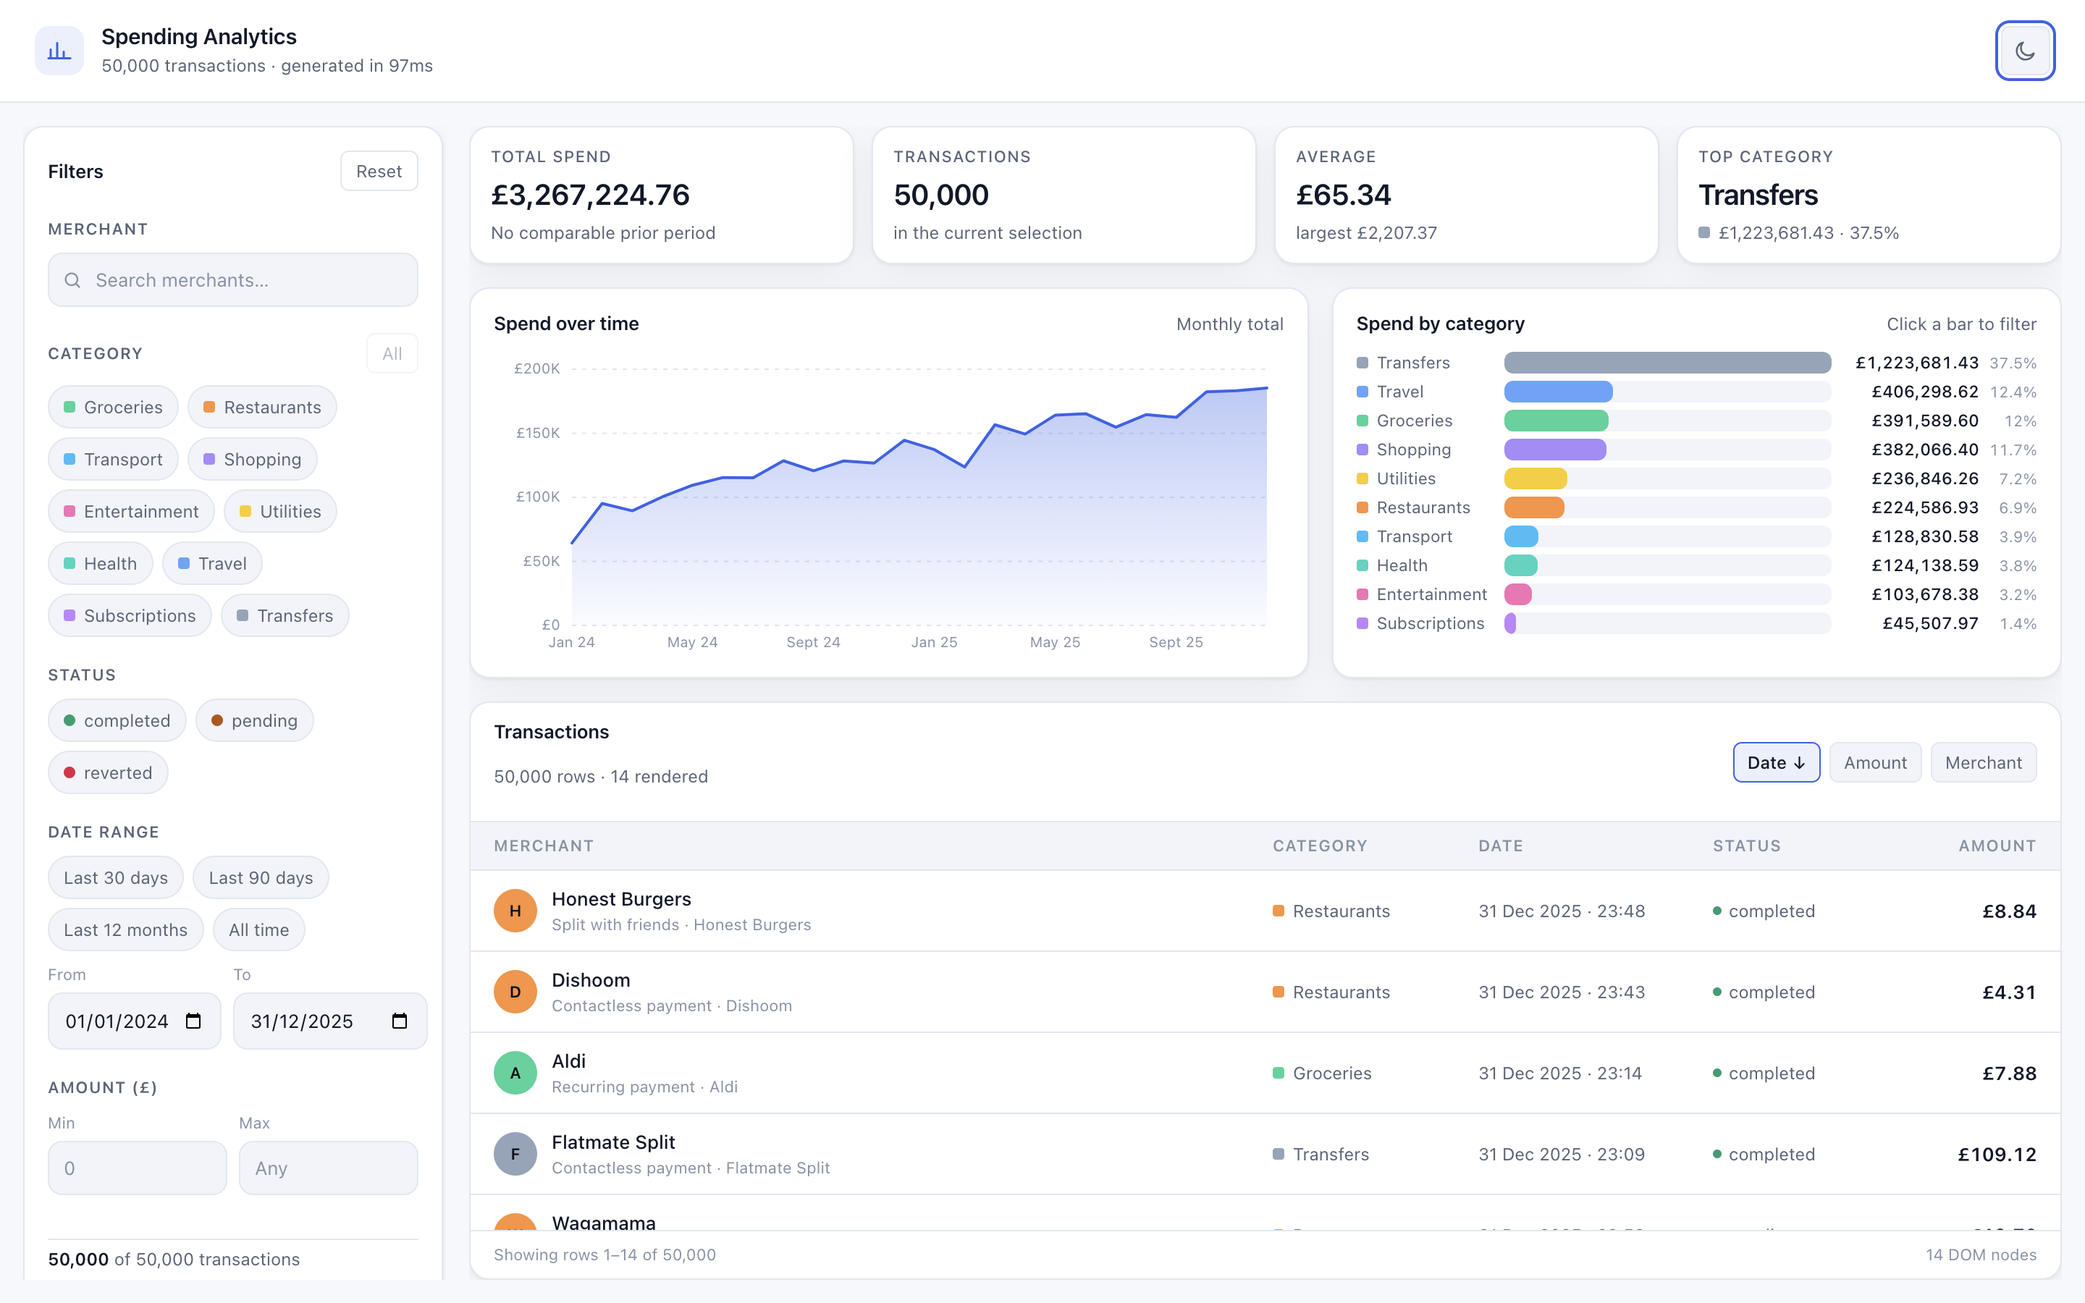
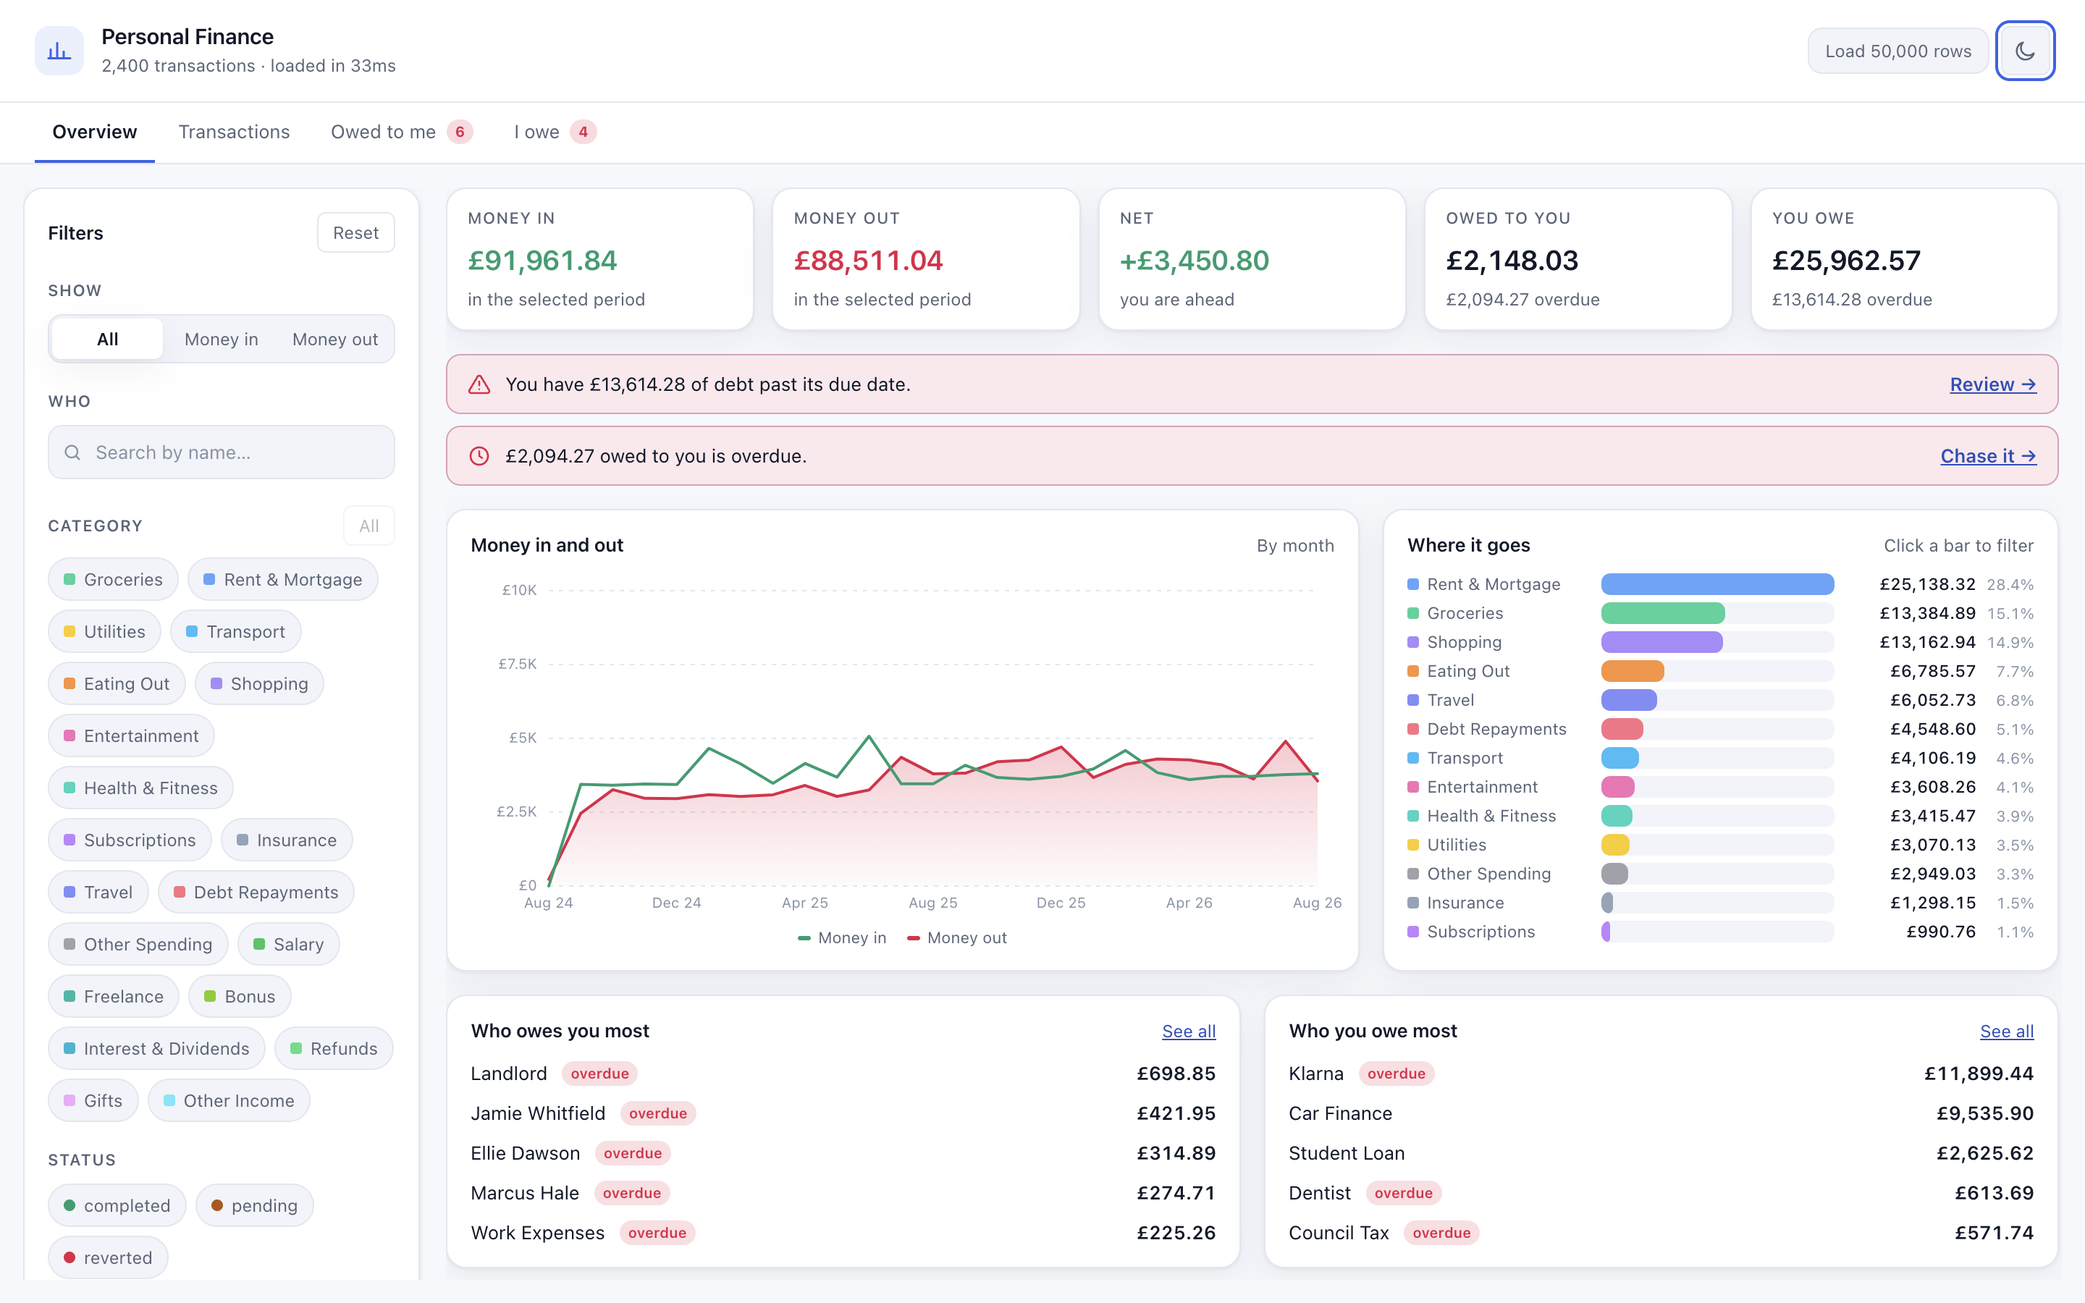
docs: rewrite the README for the finance dashboard
It still described a spending-only tool with a merchant search. Now
covers the four sections, what is stored locally and what is not, and
the decisions worth reading the code for.

diff --git a/cypress/capture/readme-screenshots.cy.ts b/cypress/capture/readme-screenshots.cy.ts
@@ -14,7 +14,8 @@ describe('README screenshots', () => {
       },
     });
 
-    cy.get('[data-testid="rendered-count"]', { timeout: 30_000 }).should('contain', '50,000 rows');
+    cy.get('[data-testid="overview-page"]', { timeout: 30_000 }).should('be.visible');
+    cy.get('[data-testid="cash-flow-chart"]').should('be.visible');
     // Let the bar widths finish their transition before capturing.
     cy.wait(600);
     cy.screenshot('dashboard-dark', { capture: 'viewport', overwrite: true });

diff --git a/README.md b/README.md
@@ -1,10 +1,7 @@
-# Spending Analytics Dashboard
+# Personal Finance Dashboard
 
-A personal-finance analytics dashboard that loads **50,000 transactions** in the browser and keeps
-filtering, sorting and charting them at interactive speed.
-
-[![CI](https://github.com/salahalomar/spending-analytics-dashboard/actions/workflows/ci.yml/badge.svg)](https://github.com/salahalomar/spending-analytics-dashboard/actions/workflows/ci.yml)
-[![Deploy](https://github.com/salahalomar/spending-analytics-dashboard/actions/workflows/deploy.yml/badge.svg)](https://github.com/salahalomar/spending-analytics-dashboard/actions/workflows/deploy.yml)
+A dashboard for the whole of your money, not just what you spent: income, outgoings, what you owe,
+and what you are owed — with everything you add saved in your own browser.
 
 **[Live demo →](https://salahalomar.github.io/spending-analytics-dashboard/)**
 
@@ -21,82 +18,68 @@ filtering, sorting and charting them at interactive speed.
 
 ## What it does
 
-- **50,000 transactions**, generated client-side from a fixed seed so every visitor sees the same
-  data and the numbers are reproducible.
-- **A virtualised list** — scroll the whole dataset while only ~20 rows are ever mounted in the DOM.
-- **Live filtering** by merchant, category, status, date range and amount, all combinable.
-- **Two charts** — spend over time and spend by category — that follow the filters and double as
-  filter controls.
-- **Summary cards** comparing the selected window against the preceding window of equal length.
-- **Light and dark themes**, persisted, defaulting to the OS preference.
-- **Keyboard and screen-reader support** throughout, including arrow-key navigation of the chart.
+Four sections, each with its own URL:
+
+- **Overview** — money in, money out, whether you are ahead, both ledger balances, and a banner when
+  anything is overdue in either direction.
+- **Transactions** — every payment in a virtualised list, with a keyboard-first row for adding your
+  own, and filters for direction, name, category, status, date range and amount.
+- **Owed to me** — who has not paid you back, aged by how overdue it is.
+- **I owe** — credit cards, loans and money borrowed, with the same ageing view.
+
+Anything you type in is stored locally and survives a reload. Nothing is uploaded anywhere; there is
+no backend.
 
 ## Built with
 
-| Concern                  | Choice                                    |
-| ------------------------ | ----------------------------------------- |
-| UI                       | React 18 + TypeScript (strict)            |
-| State                    | Redux Toolkit + Reselect                  |
-| Build                    | Vite 6                                    |
-| Unit / integration tests | Jest + React Testing Library              |
-| End-to-end tests         | Cypress                                   |
-| Linting / formatting     | ESLint (type-aware + jsx-a11y) + Prettier |
-| CI                       | GitHub Actions                            |
+| Concern | Choice |
+| --- | --- |
+| UI | React 18 + TypeScript (strict) |
+| State | Redux Toolkit + Reselect |
+| Routing | React Router 7 |
+| Storage | IndexedDB, with an in-memory fallback |
+| Build | Vite 6 |
+| Unit / integration tests | Jest + React Testing Library |
+| End-to-end tests | Cypress |
+| Quality | ESLint (type-aware) + Prettier, enforced in CI |
 
-There is no charting library and no virtual-list library — both are implemented here, because the
-interesting parts of this project are exactly those two problems.
+No charting library and no virtual-list library — both are implemented here, because those are the
+interesting parts of the problem.
 
-## The performance work
+## The engineering worth looking at
 
-Rendering 50,000 rows is easy to get wrong in ways that only show up with real data. Four decisions
-carry most of the weight:
-
-**Only the visible rows exist.**
-[`useVirtualizer`](src/hooks/useVirtualizer.ts) computes which slice of the list intersects the
-viewport and renders only that, plus a small overscan. The scroll container is sized to the full
+**Only the visible rows exist.** [`useVirtualizer`](src/hooks/useVirtualizer.ts) renders the slice of
+the list intersecting the viewport plus a small overscan, sizing the scroll container to the full
 list height so the scrollbar stays honest. Scroll events are coalesced into an animation frame,
-because a trackpad can fire them far more often than the browser paints. The range arithmetic is a
-[pure exported function](src/hooks/useVirtualizer.ts) so it can be tested without a DOM.
+because a trackpad fires them far more often than the browser paints. The range arithmetic is a pure
+exported function, so it is tested without a DOM. The footer shows the live DOM-node count, and the
+header has a button that loads 50,000 rows so you can watch it stay flat.
 
-**The merchant search never touches 50,000 strings.**
-There are ~70 distinct merchant names in the dataset. The search box
-[resolves the query against those names](src/features/transactions/selectors.ts) and the row filter
-then does a `Set` membership test. Lower-casing and substring-scanning 50,000 strings on every
-keystroke would be roughly three orders of magnitude more work.
+**The search never touches every row.** There are a few dozen distinct counterparty names. The
+search box [resolves the query against those](src/features/transactions/selectors.ts) and the row
+filter does a `Set` membership test — orders of magnitude less work per keystroke than lower-casing
+and scanning every string.
 
-**Filters are split so a slider doesn't redo everything.**
-`selectFilteredIgnoringDate` runs the merchant, category, status and amount predicates;
-`selectFilteredTransactions` layers the date range on top. Dragging a date input therefore re-runs
-one cheap comparison per row instead of all five predicates — and the summary card reuses the
-undated stage to compute the previous-period comparison for free.
+**Filters are split so a date slider doesn't redo everything.** `selectFilteredIgnoringDate` runs the
+name, category, status and amount predicates; the date range layers on top. Moving a date re-runs one
+comparison per row instead of all five — and the summary reuses the undated stage to compute the
+previous-period comparison for free.
 
-**The default sort is free.**
-The generator emits transactions newest-first and every filter preserves that order, so the default
-view returns the same array reference rather than copying and sorting 50,000 objects.
+**The default sort is free.** Transactions arrive newest-first and every filter preserves that order,
+so the default view returns the same array reference rather than copying and sorting.
 
-Typing is debounced at 200ms, and the store's development-mode serialisability and immutability
-checks are switched off — deep-scanning a 50,000 item array on every dispatch costs hundreds of
-milliseconds and catches nothing here.
+**Merging your records with the sample is linear.** Both sides are already sorted newest-first, so
+they are merged in one pass rather than concatenated and re-sorted.
 
-The result: **~75 kB gzipped**, the dataset built in around 100–300 ms, and a row count in the DOM
-that stays flat no matter how far you scroll. The footer shows that number live.
+**Money is integers.** Every amount is a positive count of pence, and `direction` carries the sign, so
+a total never depends on remembering which way round a figure was stored. Rounding happens once, at
+the formatting boundary.
 
-## Accessibility
-
-Not an afterthought, and not just labels:
-
-- The virtualised list is a real `list`/`listitem` structure where each row
-  reports `aria-setsize` of the **full** result count and its true `aria-posinset`, so a screen
-  reader announces "row 12,481 of 50,000" rather than "12 of 20".
-- Each row is a toggle wired to the detail panel with `aria-expanded` and `aria-controls`, and
-  dismissing the panel hands focus back to the row rather than dropping it to the top of the page.
-- The trend chart carries the same figures as a visually hidden table, so the series is readable
-  rather than being an unlabelled graphic, and it can be stepped through with the arrow keys.
-- Filter chips are `aria-pressed` toggles, the result count is an `aria-live` region, and every
-  interactive element has a single visible focus treatment.
-- Motion is dropped entirely under `prefers-reduced-motion`.
-
-ESLint runs `jsx-a11y` over the source as part of CI.
+**Status is derived, never stored.** A debt's `overdue` state is computed from its due date rather
+than saved, so a record cannot sit in storage claiming a status that stopped being true. The
+derivation takes the current time as an argument, which keeps it pure — and the pages read the clock
+through [`useNow`](src/hooks/useNow.ts), via `useSyncExternalStore`, because calling `Date.now()`
+during render is impure and lets two parts of the same screen disagree.
 
 ## Getting started
 
@@ -109,84 +92,91 @@ Then open http://localhost:5173.
 
 ### Scripts
 
-| Command                 | What it does                                 |
-| ----------------------- | -------------------------------------------- |
-| `npm run dev`           | Dev server with hot reload                   |
-| `npm run build`         | Typecheck, then production build to `dist/`  |
-| `npm run preview`       | Serve the production build on port 4173      |
-| `npm run typecheck`     | `tsc --noEmit`                               |
-| `npm run lint`          | ESLint over source, tests and Cypress specs  |
-| `npm run format`        | Prettier write (`format:check` runs in CI)   |
-| `npm test`              | Jest unit and integration tests              |
-| `npm run test:coverage` | The same, with a coverage report             |
-| `npm run cy:open`       | Cypress in interactive mode                  |
-| `npm run e2e`           | Build-and-serve, then run Cypress headlessly |
+| Command | What it does |
+| --- | --- |
+| `npm run dev` | Dev server with hot reload |
+| `npm run build` | Typecheck, then production build to `dist/` |
+| `npm run preview` | Serve the production build on port 4173 |
+| `npm run typecheck` | `tsc --noEmit` |
+| `npm run lint` | ESLint across the project |
+| `npm test` | Jest unit and integration tests |
+| `npm run test:coverage` | The same, with a coverage report |
+| `npm run cy:open` | Cypress in interactive mode |
+| `npm run e2e` | Build-and-serve, then run Cypress headlessly |
 
 ## Testing
 
-**211 Jest tests at ~97% statement coverage**, with the threshold enforced in
-[`jest.config.cjs`](jest.config.cjs) so it cannot quietly rot.
+**292 Jest tests at ~96% statement coverage**, with the threshold enforced in
+[`jest.config.cjs`](jest.config.cjs) so it cannot quietly rot, plus **10 Cypress journeys** against
+the production build.
 
 The suite is layered rather than uniform:
 
-- _Pure logic_ — the PRNG, the generator, the scale maths and the virtualiser's range calculation
-  are tested directly as functions.
-- _Reducers and selectors_ — tested against hand-checkable fixtures, including boundary days on
-  date ranges and the previous-period comparison.
-- _Components_ — rendered against a **real store**, not a mocked one, so the reducers and selectors
-  are exercised as part of the test. The list is asserted to render ~20 rows for a 5,000-row dataset
-  while still reporting the full count; the debounce is verified by dispatch count, so typing
-  "tesco" must produce exactly one action.
-- _Integration_ — [`App.test.tsx`](src/App.test.tsx) drives the whole dashboard through the UI.
+- *Pure logic* — the PRNG, the generator, the scale maths, the ageing buckets and the virtualiser's
+  range calculation are tested directly as functions.
+- *Persistence* — exercised against a real IndexedDB via `fake-indexeddb`, including that a record
+  survives being read back through a fresh connection.
+- *Reducers and selectors* — hand-checkable fixtures, including boundary days on date ranges and the
+  previous-period comparison.
+- *Components* — rendered against a **real store and a real router**, not mocks. The list is asserted
+  to render ~20 rows for a 5,000-row dataset while still reporting the full count; the debounce is
+  verified by dispatch count, so typing "tesco" must produce exactly one action.
+- *Integration* — [`App.test.tsx`](src/App.test.tsx) drives the whole dashboard through the UI.
 
 [`jest.setup.ts`](jest.setup.ts) supplies what jsdom lacks: element dimensions, `ResizeObserver`,
-and a `PointerEvent` built on `MouseEvent` so the chart's pointer handling can be exercised.
-
-**Cypress** covers the journey end-to-end against the production build: load the dataset, confirm
-only a window of rows is mounted, scroll deep into the list, filter by category, search a merchant,
-apply a date preset, re-sort, open a transaction, and reset back to 50,000.
-
-```bash
-npm run e2e
-```
+`PointerEvent`, `TextEncoder` and `structuredClone`. That last one mattered more than it sounds —
+IndexedDB uses it to copy values on insertion, so without it every write threw and the store fell
+back to memory, which would have let the persistence tests pass while testing nothing.
 
 ## Project structure
 
 ```
 src/
 ├── app/            Store configuration and pre-typed hooks
-├── components/     UI, grouped by area (charts, filters, transactions, …)
-├── data/           Seeded PRNG and the transaction generator
+├── components/     UI, grouped by area (charts, filters, ledger, transactions, …)
+├── data/           Seeded PRNG and the sample generators
 ├── features/       Redux slices and the selector layer
-├── hooks/          useVirtualizer, useElementSize, useDebouncedValue
-├── test/           Store-aware render helper and fixtures
+├── hooks/          useVirtualizer, useElementSize, useDebouncedValue, useNow
+├── pages/          Overview and transactions
+├── services/       Local persistence
 ├── types/          Domain model
-└── utils/          Formatting, dates and chart scales
+└── utils/          Formatting, dates, colours and chart scales
 cypress/
-├── e2e/            The end-to-end journey
+├── e2e/            The end-to-end journeys
 └── capture/        Regenerates the README screenshots
 ```
 
 ## Deployment
 
-The repository is set up for three hosts, each needing no extra configuration:
+Set up for three hosts, none needing extra configuration:
 
-- **GitHub Pages** — [`deploy.yml`](.github/workflows/deploy.yml) builds and publishes on every
-  push to `main`. Requires _Settings → Pages → Source: GitHub Actions_ once; the workflow token
-  cannot create the Pages site itself.
+- **GitHub Pages** — [`deploy.yml`](.github/workflows/deploy.yml) builds and publishes on every push
+  to `main`, and enables Pages on the first run.
 - **Vercel** — import the repository; [`vercel.json`](vercel.json) supplies the rest.
 - **Netlify** — import the repository; [`netlify.toml`](netlify.toml) supplies the rest.
 
-Pages serves a project repo from a subpath, so the deploy workflow passes `DEPLOY_BASE` to Vite.
-Vercel and Netlify serve from the root and need no override.
+Pages serves a project repo from a subpath, so the deploy workflow passes `DEPLOY_BASE` to Vite and
+the router reads `BASE_URL`. The build also copies `index.html` to `404.html`, which is how Pages
+hands deep links back to a client-side router.
 
-## Notes on the data
+## Notes on the sample data
 
-The dataset is synthetic and generated at runtime — there is no backend and nothing leaves the
-browser. It is shaped to look like real spending rather than uniform noise: categories are weighted,
-amounts are drawn from a per-category normal distribution with a clamped tail, and there are
-weekend, payday and inflation effects. Money is stored in minor units (pence) as integers, so sums
-are exact and rounding only happens at the formatting boundary.
+The sample is synthetic, generated at runtime from a fixed seed, and shaped to look like one person's
+two years rather than uniform noise:
+
+- salary lands on payday each month from a single baseline, rather than being drawn at random — which
+  had produced a dozen pay packets some months and none in others
+- rent, utilities, subscriptions, insurance and loan repayments are scheduled the same way
+- everyday spending is weighted by how often each category actually happens, with amounts drawn from
+  a per-category normal distribution and a clamped tail
+- there are weekend, payday and inflation effects
+
+It works out at roughly 3.5 card payments a day, with money in and money out within about 10% of each
+other — a plausible picture rather than an impressive-looking one. The dataset is anchored to the
+current date, so it never drifts into the past.
+
+The 50,000-row stress dataset is one button away in the header. It is there to show the virtualised
+list under load, not to suggest anyone spends that often.
 
 ## Licence
 
